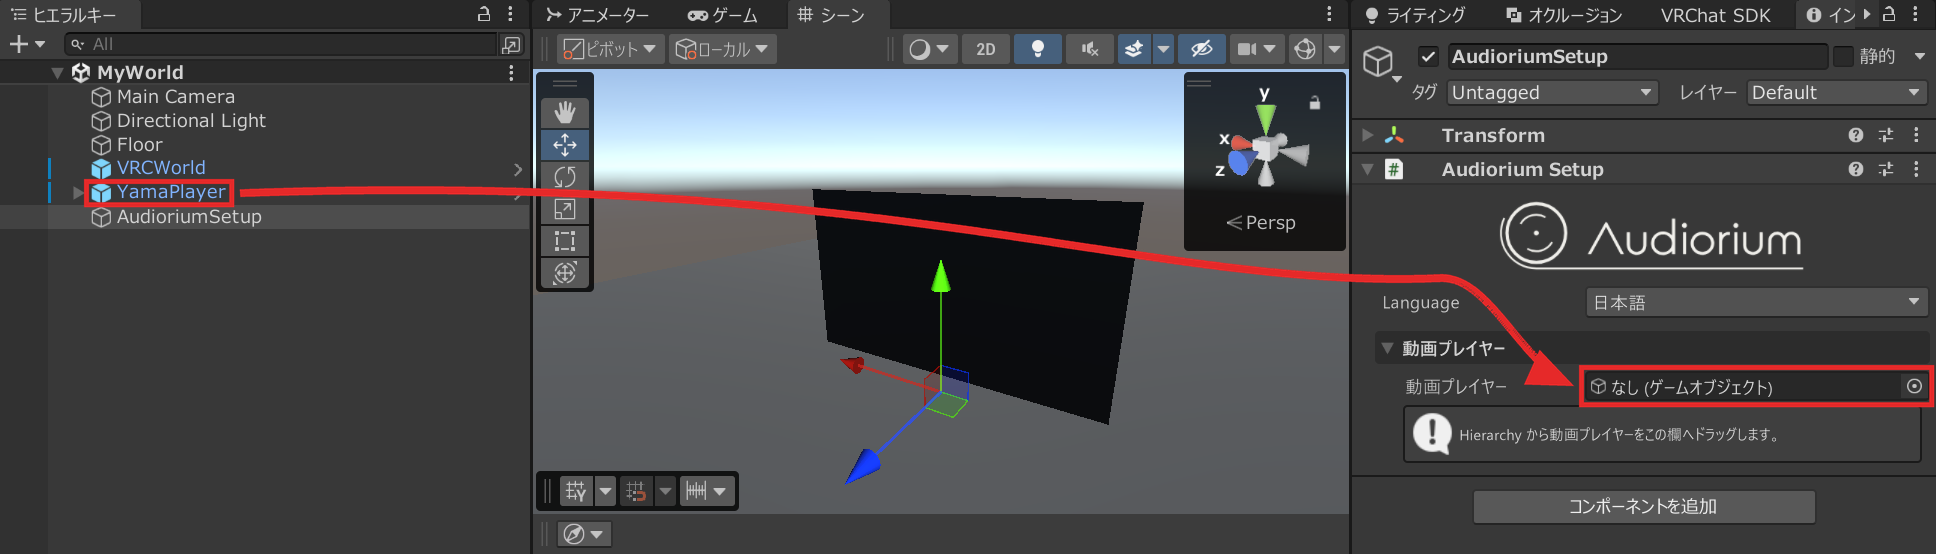
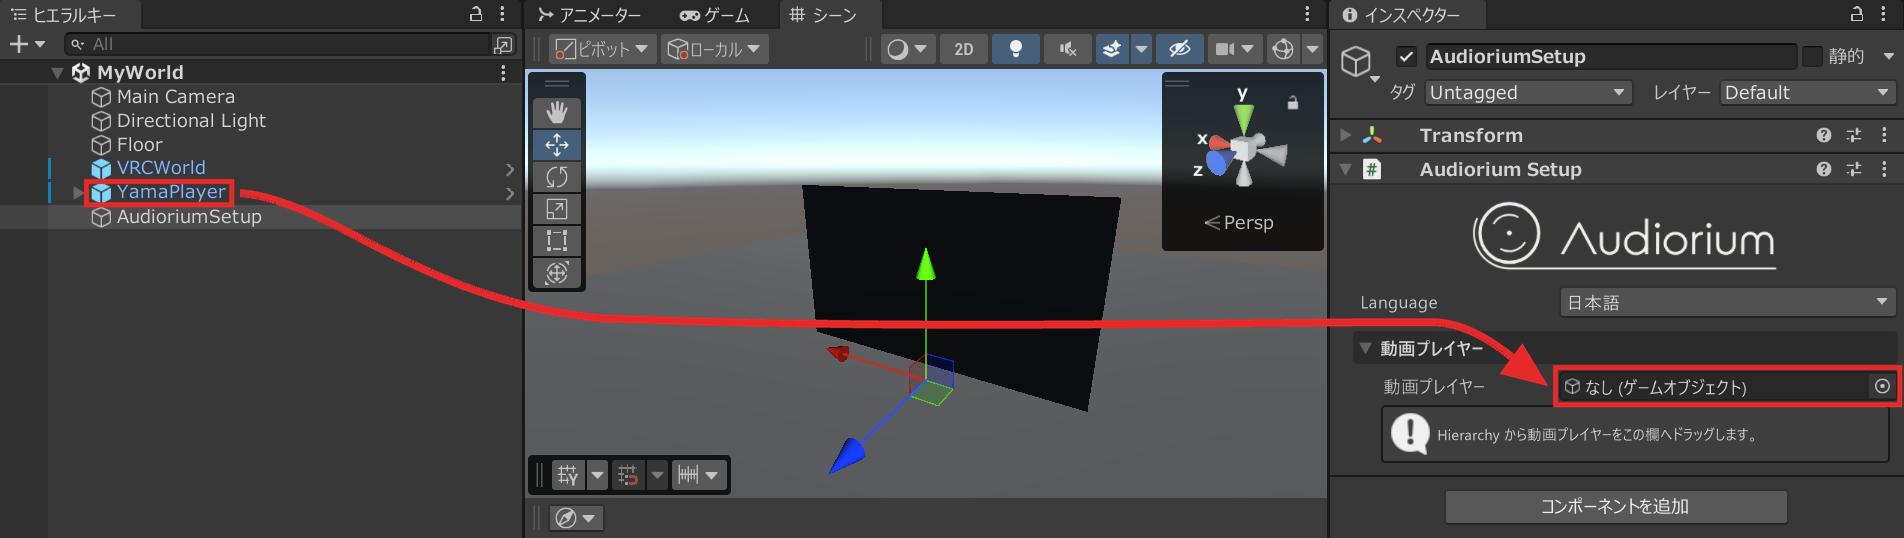
内部処理の説明を消し、Add Audiorium の新しい手順を、選択の有無で結果が分かれる形に仕上げる（本人「内部処理てきな記載は、要らないのでは？ユーザーのセットアップに直結する、必要十分な情報で事足りると思うんです」「はい、マニュアルは直して、公開してください」）
- 内部処理・画面で分かる文を消した：トラブルシューティングの「Audiorium が U# を再コンパイルします」、動画プレイヤーのページの「AudioSource の設定を書き換えません」の節、コンソールのページのプレビューの文、Live とライトの「ライトショーを接続」
- 新しい動きに合わせた：スピーカーの画像の説明と役割の行、トラブルシューティングの「AudioriumSetup を削除してもう一度」「ほかの Audiorium が接続」、「スピーカーとコンソールが配置されない」「既に AudioriumSetup がシーン上に存在します」の節を足した
- クイックスタート：手順 1 の結果を「動画プレイヤー以外・何も選択していない」「動画プレイヤーを選択している」の 2 行に、手順 2 にどの物の Inspector の欄か・押したままドラッグ、TMP Importer の囲みを手順の直後へ、出力の 8 つの文
- 画像 3 枚を同じ状態・同じ視点で撮り直した（VRCWorld をそろえ、「インスペクター」のタブが読める形、矢印はツールの列の下を通す）
- 審査を 3 回（Fable、労力 high）。3 回目で通過。記録は TheaterConsole の _work/manual-add-audiorium/review-log.md

diff --git a/docs/getting-started/quick-start.md b/docs/getting-started/quick-start.md
@@ -11,7 +11,7 @@ hide_table_of_contents: true
 
 ## 動画プレイヤーを配置する
 
-YamaPlayer か VizVid を Scene に配置し、位置と向きを決めます。Audiorium によって生成される AudioSource（以降、スピーカー）とコンソールは、動画プレイヤーの位置を基準に配置されます。
+YamaPlayer か VizVid を Scene に配置し、位置と向きを決めます。置き方は [動画プレイヤーを配置する](../setup/video-player.md#動画プレイヤーを配置する) を参照してください。Audiorium が配置する AudioSource（以降、スピーカー）とコンソールは、動画プレイヤーのスクリーンを基準に配置されます。
 
 ![Scene に YamaPlayer を配置して選択した状態。Hierarchy に YamaPlayer、Scene ビューに動画プレイヤーの画面が表示されている。Audiorium を配置する前](/img/quick-start/player-placed.png "full")
 
@@ -19,44 +19,39 @@ YamaPlayer か VizVid を Scene に配置し、位置と向きを決めます。
 
 <div className="paren-list">
 
-1. メニューの **Tools › Audiorium › Add Audiorium** を選択します。Hierarchy の右クリックメニューの **Audiorium › Add Audiorium** でも同じです。
+1. メニューの **Tools › Audiorium › Add Audiorium** を実行します。Hierarchy の右クリックメニューの **Audiorium › Add Audiorium** からも実行できます。
 
-   `AudioriumSetup` が Hierarchy に追加され、選択された状態になります。この時点では、スピーカーとコンソールはまだ配置されません。
+   - **何も選択していない、または動画プレイヤー以外を選択している場合**：`AudioriumSetup` が Hierarchy に追加され、選択された状態になります。この時点では、スピーカーとコンソールはまだ配置されません。手順 2 へ進みます。
+   - **動画プレイヤー（その中のオブジェクトを含む）を選択している場合**（Hierarchy で動画プレイヤーを右クリックした場合も）：その動画プレイヤーに接続され、スピーカーとコンソールが配置されます。手順 2 は要りません。
 
-2. Hierarchy の動画プレイヤーを、Inspector の「動画プレイヤー」の欄へドラッグします。
+2. Hierarchy から、接続する動画プレイヤー（複数ある場合は、Audiorium で鳴らす 1 台）を、`AudioriumSetup` の Inspector の「動画プレイヤー」の欄へ、押したままドラッグします。クリックして離すと、Inspector の表示が動画プレイヤーに切り替わります。その場合は、Hierarchy で `AudioriumSetup` を選択し直します。
 
    ![Add Audiorium の直後の画面。Hierarchy で AudioriumSetup が選択され、Inspector の「動画プレイヤー」の欄は空。Hierarchy の YamaPlayer から Inspector の欄へ、ドラッグする向きを矢印で示している](/img/quick-start/player-drag.png)
 
 </div>
 
-動画プレイヤーに接続され、スピーカーとコンソールが配置されます。
-
-![動画プレイヤーに接続した直後。Scene にスピーカーとコンソールが配置され、Inspector に AudioriumSetup の設定が表示される](/img/quick-start/editor-after-add.png)
-
-![動画プレイヤーに接続した直後の Hierarchy](/img/setup/hierarchy.png)
-
-| 配置されるオブジェクト | 説明 |
-| --- | --- |
-| `ListeningPosition` | 視聴位置。スピーカーの音が届く範囲を決める基準の位置です |
-| `Front`・`Surround`・`Top Middle`・`Stereo Mix`・`Subwoofer` | スピーカー。動画プレイヤーのスクリーンを基準に配置されます |
-| `AudioriumConsole` | コンソール。台のあるモデルを選択すると、台の名前の `ConsoleMount_` の中に入ります |
-| `AudioControls` など、そのほかのオブジェクト | Audiorium の動作に使うオブジェクト。移動・削除しないでください |
-
-接続した直後は、Front・Surround・Top Middle・Stereo Mix・Subwoofer の 5 種類、8 つの出力が配置されます。使わないスピーカーは [こちらの手順](../setup/speakers.md#追加と削除) で外します。
-
-:::tip 動画プレイヤーを選択してから Add Audiorium を選択した場合
-
-選択していた動画プレイヤーに接続した状態で配置されます。手順 2 は要りません。
-
-:::
-
-:::warning TMP Importer が表示された場合
+:::warning TMP Importer の窓が表示された場合
 
 TMP Essentials が無いと、コンソールの文字が表示されません。
 
 「Import TMP Essentials」を押します。導入後、Scene ビューの Audiorium コンソールが文字化けしている場合は、[トラブルシューティング](../help/troubleshooting.md#コンソールの文字が表示されない) を参照してください。
 
 :::
+
+動画プレイヤーに接続されると、Scene ビューのスクリーンの手前にコンソールが表示されます。スピーカーとコンソールは、Hierarchy の `AudioriumSetup` の中に入ります（2 枚目の画像）。
+
+![動画プレイヤーに接続した直後。Scene にスピーカーとコンソールが配置され、Inspector に AudioriumSetup の設定が表示される](/img/quick-start/editor-after-add.png)
+
+![動画プレイヤーに接続した直後の Hierarchy。AudioriumSetup を開いた状態](/img/setup/hierarchy.png)
+
+| 配置されるオブジェクト | 説明 |
+| --- | --- |
+| `ListeningPosition` | 視聴位置。スピーカーの音が届く範囲を決める基準の位置です |
+| `Front`・`Surround`・`Top Middle`・`Stereo Mix`・`Subwoofer` | スピーカー。動画プレイヤーのスクリーンを基準に配置されます |
+| `AudioriumConsole` | コンソール。Inspector の「Audiorium コンソール」の節で台のあるモデルを選ぶと、`ConsoleMount_`（台の名前）の中へ移ります |
+| `AudioControls` など、そのほかのオブジェクト | Audiorium の動作に使うオブジェクト。移動・削除しないでください。灰色（非アクティブ）の物も、そのままにします |
+
+スピーカーの出力は合わせて 8 つまでで、接続した直後は 8 つすべてを使います（Front・Surround・Top Middle は左右で 2 つずつ）。スピーカーを足す場合は、先に使わないスピーカーを [こちらの手順](../setup/speakers.md#追加と削除) で外します。
 
 ## Inspector の警告を確認する
 

diff --git a/docs/help/troubleshooting.md b/docs/help/troubleshooting.md
@@ -17,8 +17,8 @@ description: Inspector に表示される警告と、よくある問題の原因
 | ビルド先が PC（Windows）ではありません | ビルドのプラットフォームが Android など | **File › Build Settings** で PC（Windows）に切り替えます。Audiorium は PC 専用です |
 | TMP Essentials がプロジェクトにないため、コンソールの文字が表示されません | TMP Essentials を導入していない | 「TMP Essentials を導入」を押します |
 | 動画プレイヤーが原点から約 ○ km 離れています | 動画プレイヤーが原点（0, 0, 0）から 5 km より遠い | 動画プレイヤーと `AudioriumSetup` を原点の近くへ移動します（[原点から遠い](#コンソールの文字や絵が欠けて見える)） |
-| VizVid に LTCGI を自動で接続できませんでした | Audiorium が VizVid の LTCGI の設定の部品を見つけられない（動作確認済みの版と仕組みが違う VizVid など） | LTCGI_Controller の Inspector で、VizVid の Auto-Configure を押します |
-| コンソールがありません | コンソールが削除された | Ctrl+Z で元に戻すか、`AudioriumSetup` を削除してもう一度 Add Audiorium を実行します（Inspector の設定はデフォルトに戻ります） |
+| VizVid に LTCGI を自動で接続できませんでした | VizVid の版が、動作確認済みの版と違う など | LTCGI_Controller の Inspector で、VizVid の Auto-Configure を押します |
+| コンソールがありません | コンソールが削除された | Ctrl+Z で元に戻すか、`AudioriumSetup` を削除し、動画プレイヤーを選択してからもう一度 Add Audiorium を実行します（Inspector の設定はデフォルトに戻ります） |
 | スピーカーがありません | スピーカーがすべて削除された | Ctrl+Z で元に戻すか、[スピーカー](../setup/speakers.md) の一覧で追加します（Surround・Top Middle・Stereo Mix・Subwoofer はチェックを入れ、任意のスピーカーを足すときは「+」を押します） |
 
 ## コンソールの文字や絵が欠けて見える
@@ -40,22 +40,37 @@ description: Inspector に表示される警告と、よくある問題の原因
 
 **原因**：Unity がスクリプトをコンパイルしています。
 
-**直し方**：右下の進行表示が消えてから、もう一度 **Tools › Audiorium › Add Audiorium** を選択します。
+**直し方**：右下の進行表示が消えてから、もう一度 **Tools › Audiorium › Add Audiorium** を実行します。
+
+## Add Audiorium の後、スピーカーとコンソールが配置されない
+
+**原因**：動画プレイヤーを選択せずに Add Audiorium を実行すると、動画プレイヤーに接続していない `AudioriumSetup` だけが配置されます。
+
+**直し方**：Hierarchy で `AudioriumSetup` を選択し、接続する動画プレイヤーを Hierarchy から Inspector の「動画プレイヤー」の欄へドラッグします（[クイックスタート](../getting-started/quick-start.md#audiorium-を配置する)）。
+
+## 「既に AudioriumSetup がシーン上に存在します。」と表示される
+
+**原因**：Audiorium は Scene に 1 つまでです。`AudioriumSetup` がある Scene で Add Audiorium を実行すると、何も追加されません。
+
+**直し方**：
+
+- **まだ動画プレイヤーに接続していない場合**：Hierarchy で `AudioriumSetup` を選択し、動画プレイヤーを Inspector の「動画プレイヤー」の欄へドラッグします（[クイックスタート](../getting-started/quick-start.md#audiorium-を配置する)）。
+- **接続する動画プレイヤーを変える場合**：同じ欄へ、別の動画プレイヤーをドラッグします（[別の動画プレイヤーに差し替える](../setup/video-player.md#別の動画プレイヤーに差し替える)）。
 
 ## 動画プレイヤーに接続できない
 
-対応する動画プレイヤーは YamaPlayer と VizVid です。
+対応する動画プレイヤーは YamaPlayer と VizVid です。「動画プレイヤー」の欄へドラッグしたときに、次の窓が表示されることがあります。
 
 | 表示 | 原因 | 直し方 |
 | --- | --- | --- |
-| この Scene にある、音源を持つ対応動画プレイヤーを 1 台選択してください。 | 対応する動画プレイヤーではない、または別の Scene にある | YamaPlayer か VizVid の、ルートの GameObject を選択します |
-| ほかの Audiorium がこの動画プレイヤーに接続しています。 | 別の `AudioriumSetup` が接続している | 別の動画プレイヤーを選択するか、接続している `AudioriumSetup` を削除します |
+| この Scene にある、音源を持つ対応動画プレイヤーを 1 台選択してください。 | 対応する動画プレイヤーではない、または別の Scene にある | YamaPlayer か VizVid の、ルートの GameObject を「動画プレイヤー」の欄へドラッグします |
+| ほかの Audiorium がこの動画プレイヤーに接続しています。 | `AudioriumSetup` が 2 つある（複製した場合など） | 片方の `AudioriumSetup` を削除します（Audiorium は Scene に 1 つまで） |
 
 ## 照明システムを本体より先にインポートした
 
 Unity の Console に UdonSharp のコンパイルエラーが出ることがあります。
 
-**直し方**：本体をインポートしてから **Tools › Audiorium › Add Audiorium** を選択すると、Audiorium が U# を再コンパイルします。順番は [インストール](../getting-started/install.md#インポートの順番) を参照してください。
+**直し方**：本体をインポートしてから **Tools › Audiorium › Add Audiorium** を実行します。順番は [インストール](../getting-started/install.md#インポートの順番) を参照してください。
 
 ## 照明システムの Inspector に「別のライトショーに接続しています」と表示される
 
